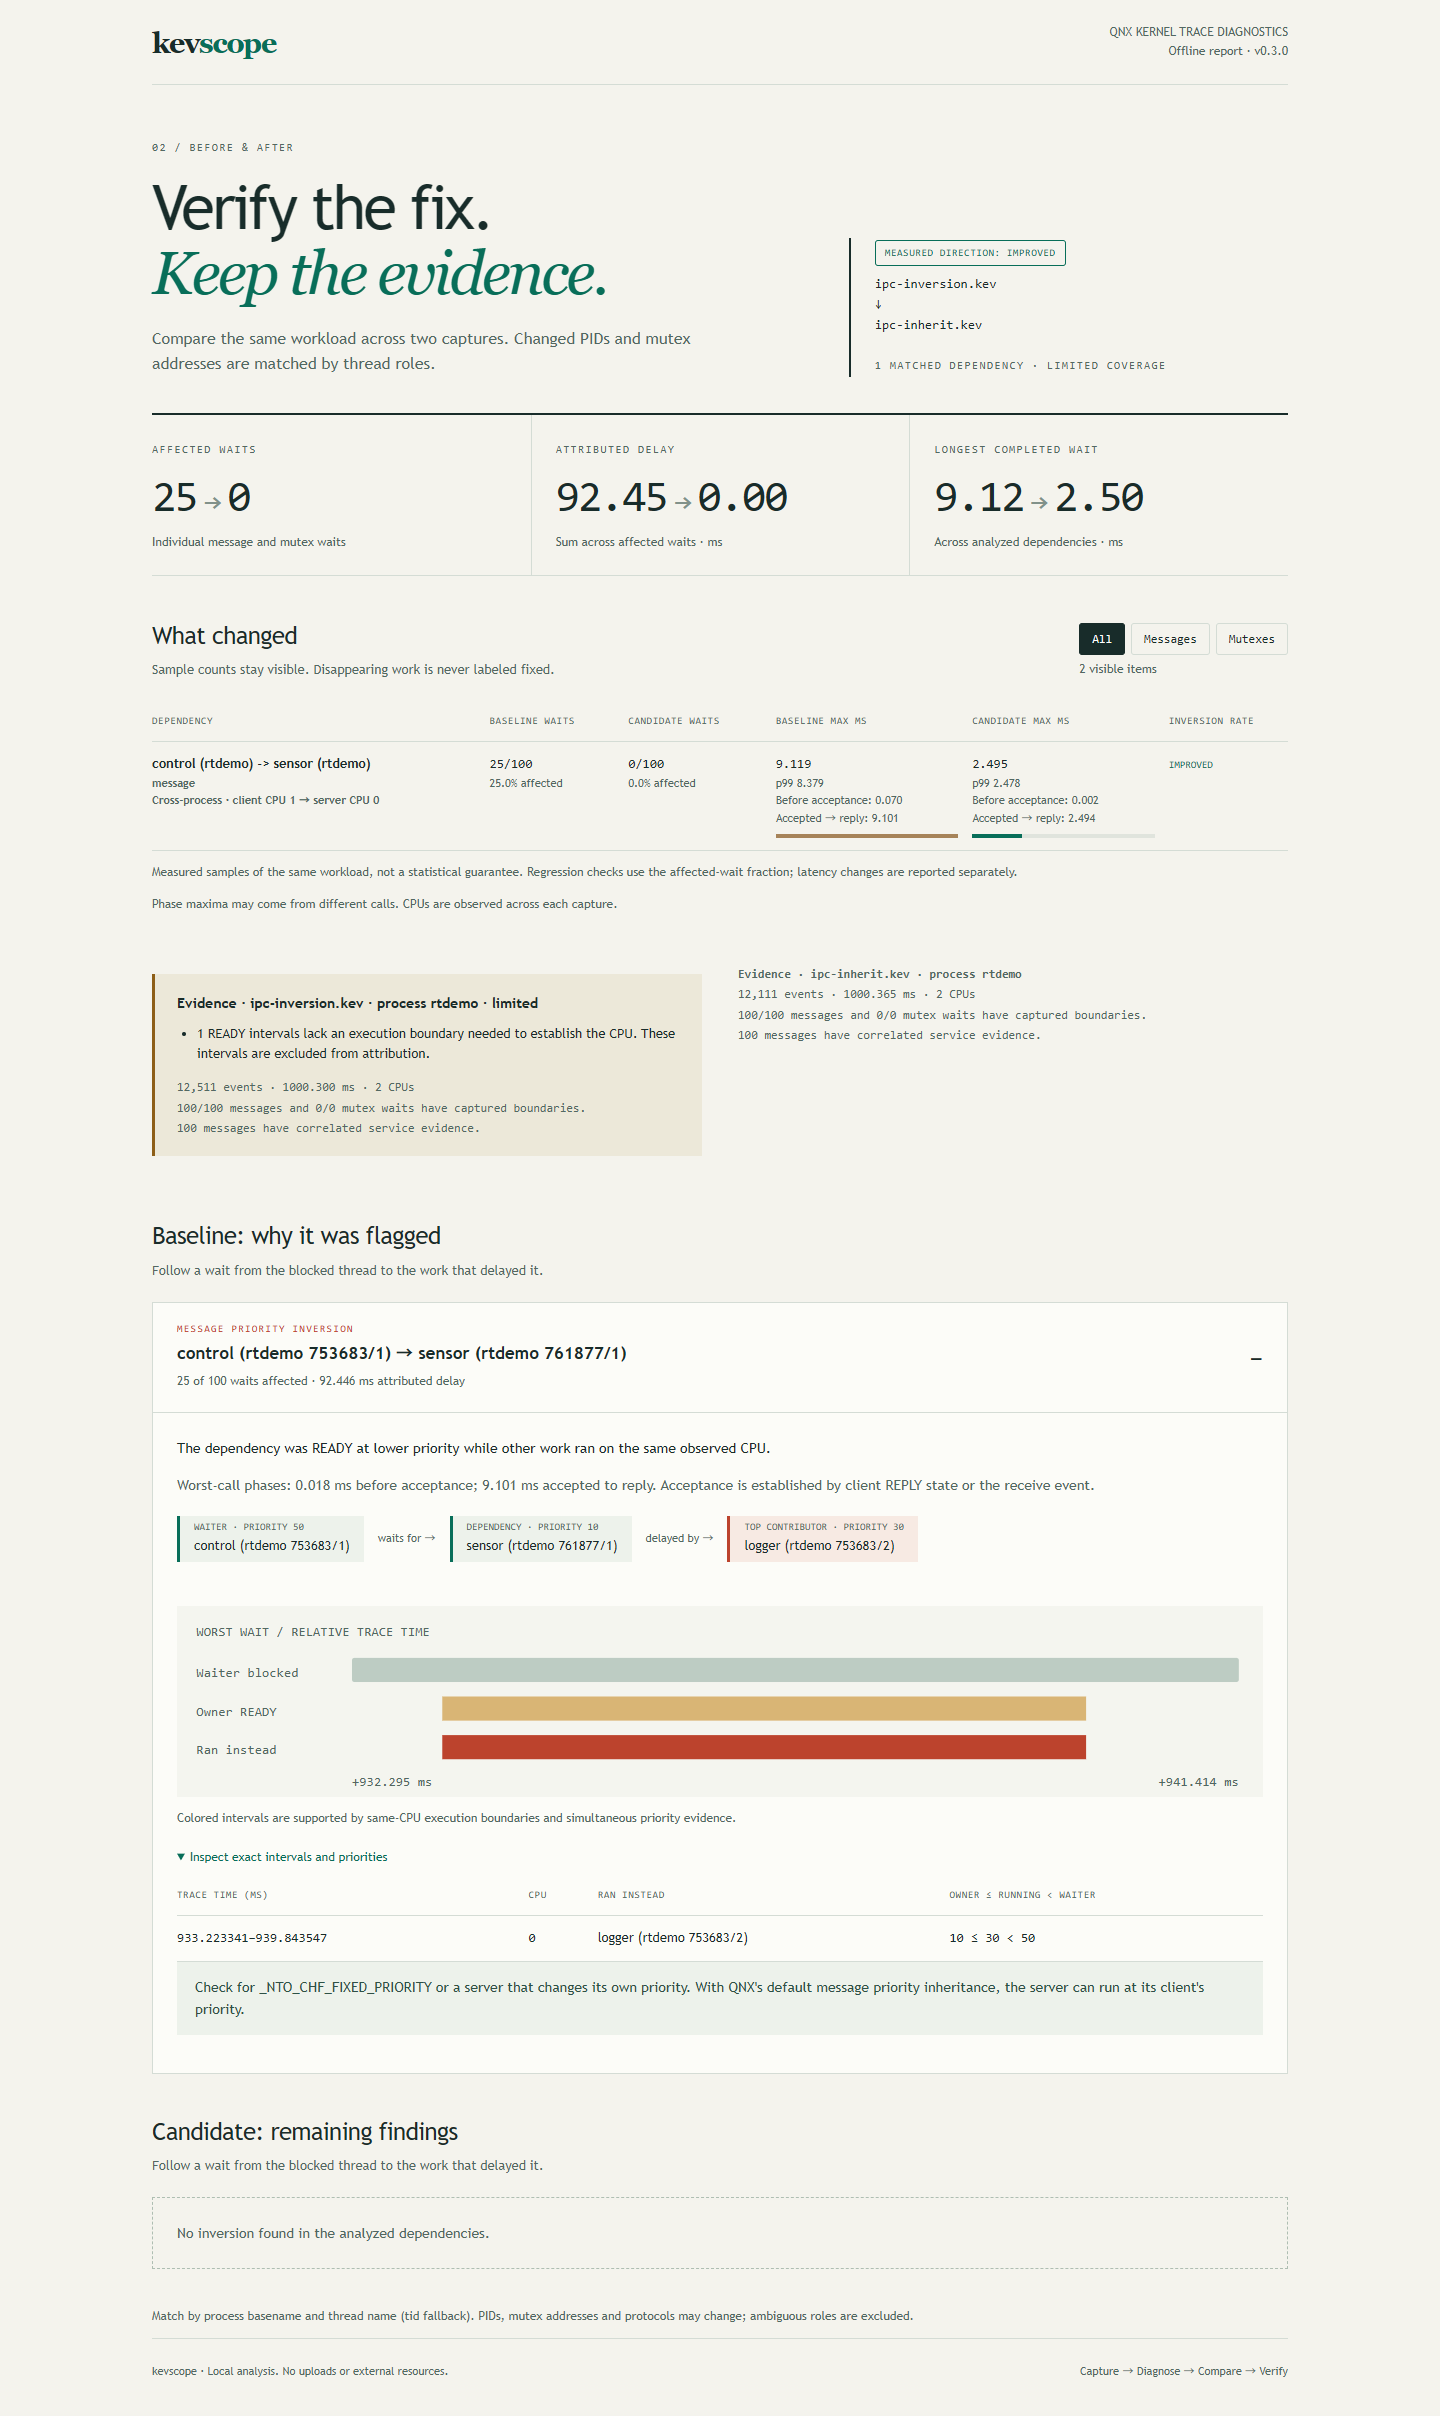
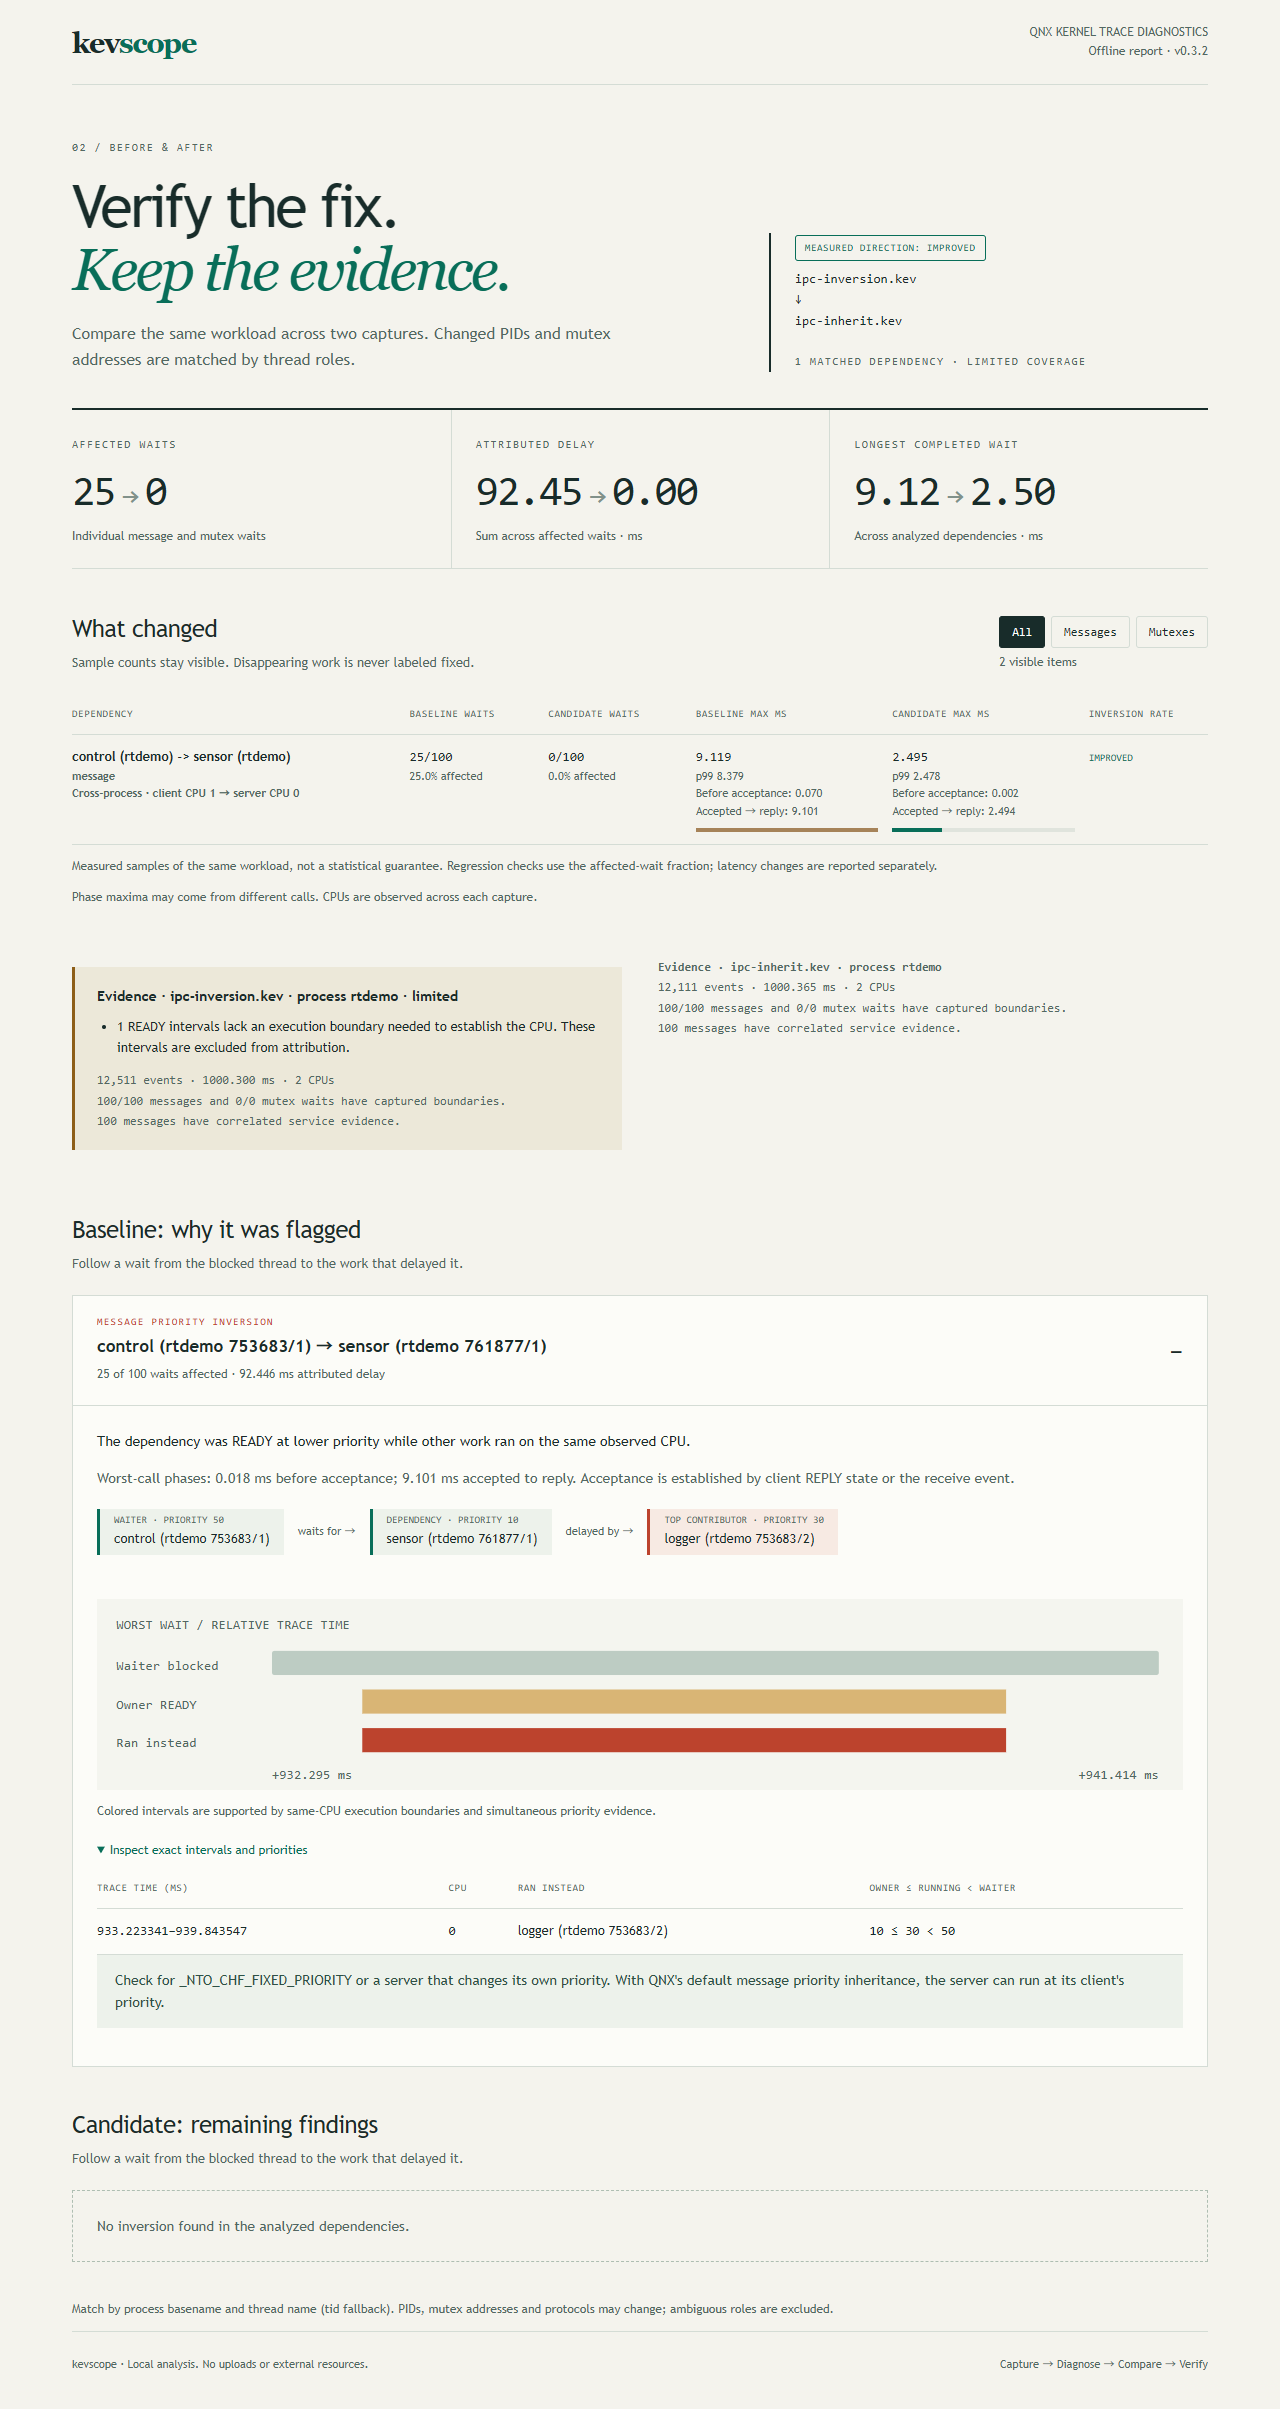
Document wait budgets and refresh comparison screenshots

diff --git a/markdown/qnx-priority-inversion-perfetto/qnx-priority-inversion-perfetto.md b/markdown/qnx-priority-inversion-perfetto/qnx-priority-inversion-perfetto.md
@@ -397,6 +397,19 @@ The comparison pairs process basenames and thread names rather than PIDs or virt
 
 `--fail-on-regression` exits 3 for a higher affected-wait fraction or a new dependency with a finding. `--strict` exits 4 if there are evidence warnings or incomplete matches, taking precedence over 3. Input/output failures exit 1 and argument errors exit 2. Unfinished waits at the capture boundary are counted and excluded from full-wait statistics.
 
+### Check a latency budget
+
+Zero inversions can coexist with an over-budget wait. Starting with v0.3.2, add an absolute maximum or p99 limit to either `report` or `compare`:
+
+```bash
+kevscope report tests/data/ipc-inherit.kev --process rtdemo --max-wait-ms 2 --json
+kevscope compare traces/mutex-bad.kev traces/mutex-good.kev --process rtdemo --max-wait-ms 2 --p99-wait-ms 2 --strict --html budget.html
+```
+
+The first uses the bundled fixed capture: no inversion is found, but the longest `MsgSend` is 2.495 ms, so the 2 ms budget exits **3**. In a comparison, limits apply separately to each dependency in the candidate; the baseline is not budget-checked. Inspect `wait_budget` in report JSON, `candidate.wait_budget` in comparison JSON, or the budget section in the HTML.
+
+Limits must be finite and positive. Checks use durations before display rounding, allow equality, and retain each dependency's sample count; p99 follows the existing nearest-index percentile. No completed reportable waits means exit **4**. `--strict` also rejects the existing coverage or matching warnings and keeps precedence over an exceeded budget. Budgets describe the observed completed message and mutex waits, not whole-cycle deadlines; a small sample is not a reliable tail-latency guarantee.
+
 No detected inversion does not guarantee every deadline was met. The trace spans only part of the program's run, and CPU load, other blocking, interrupts or virtualization can affect cycle timing independently of priority inheritance.
 
 ---
